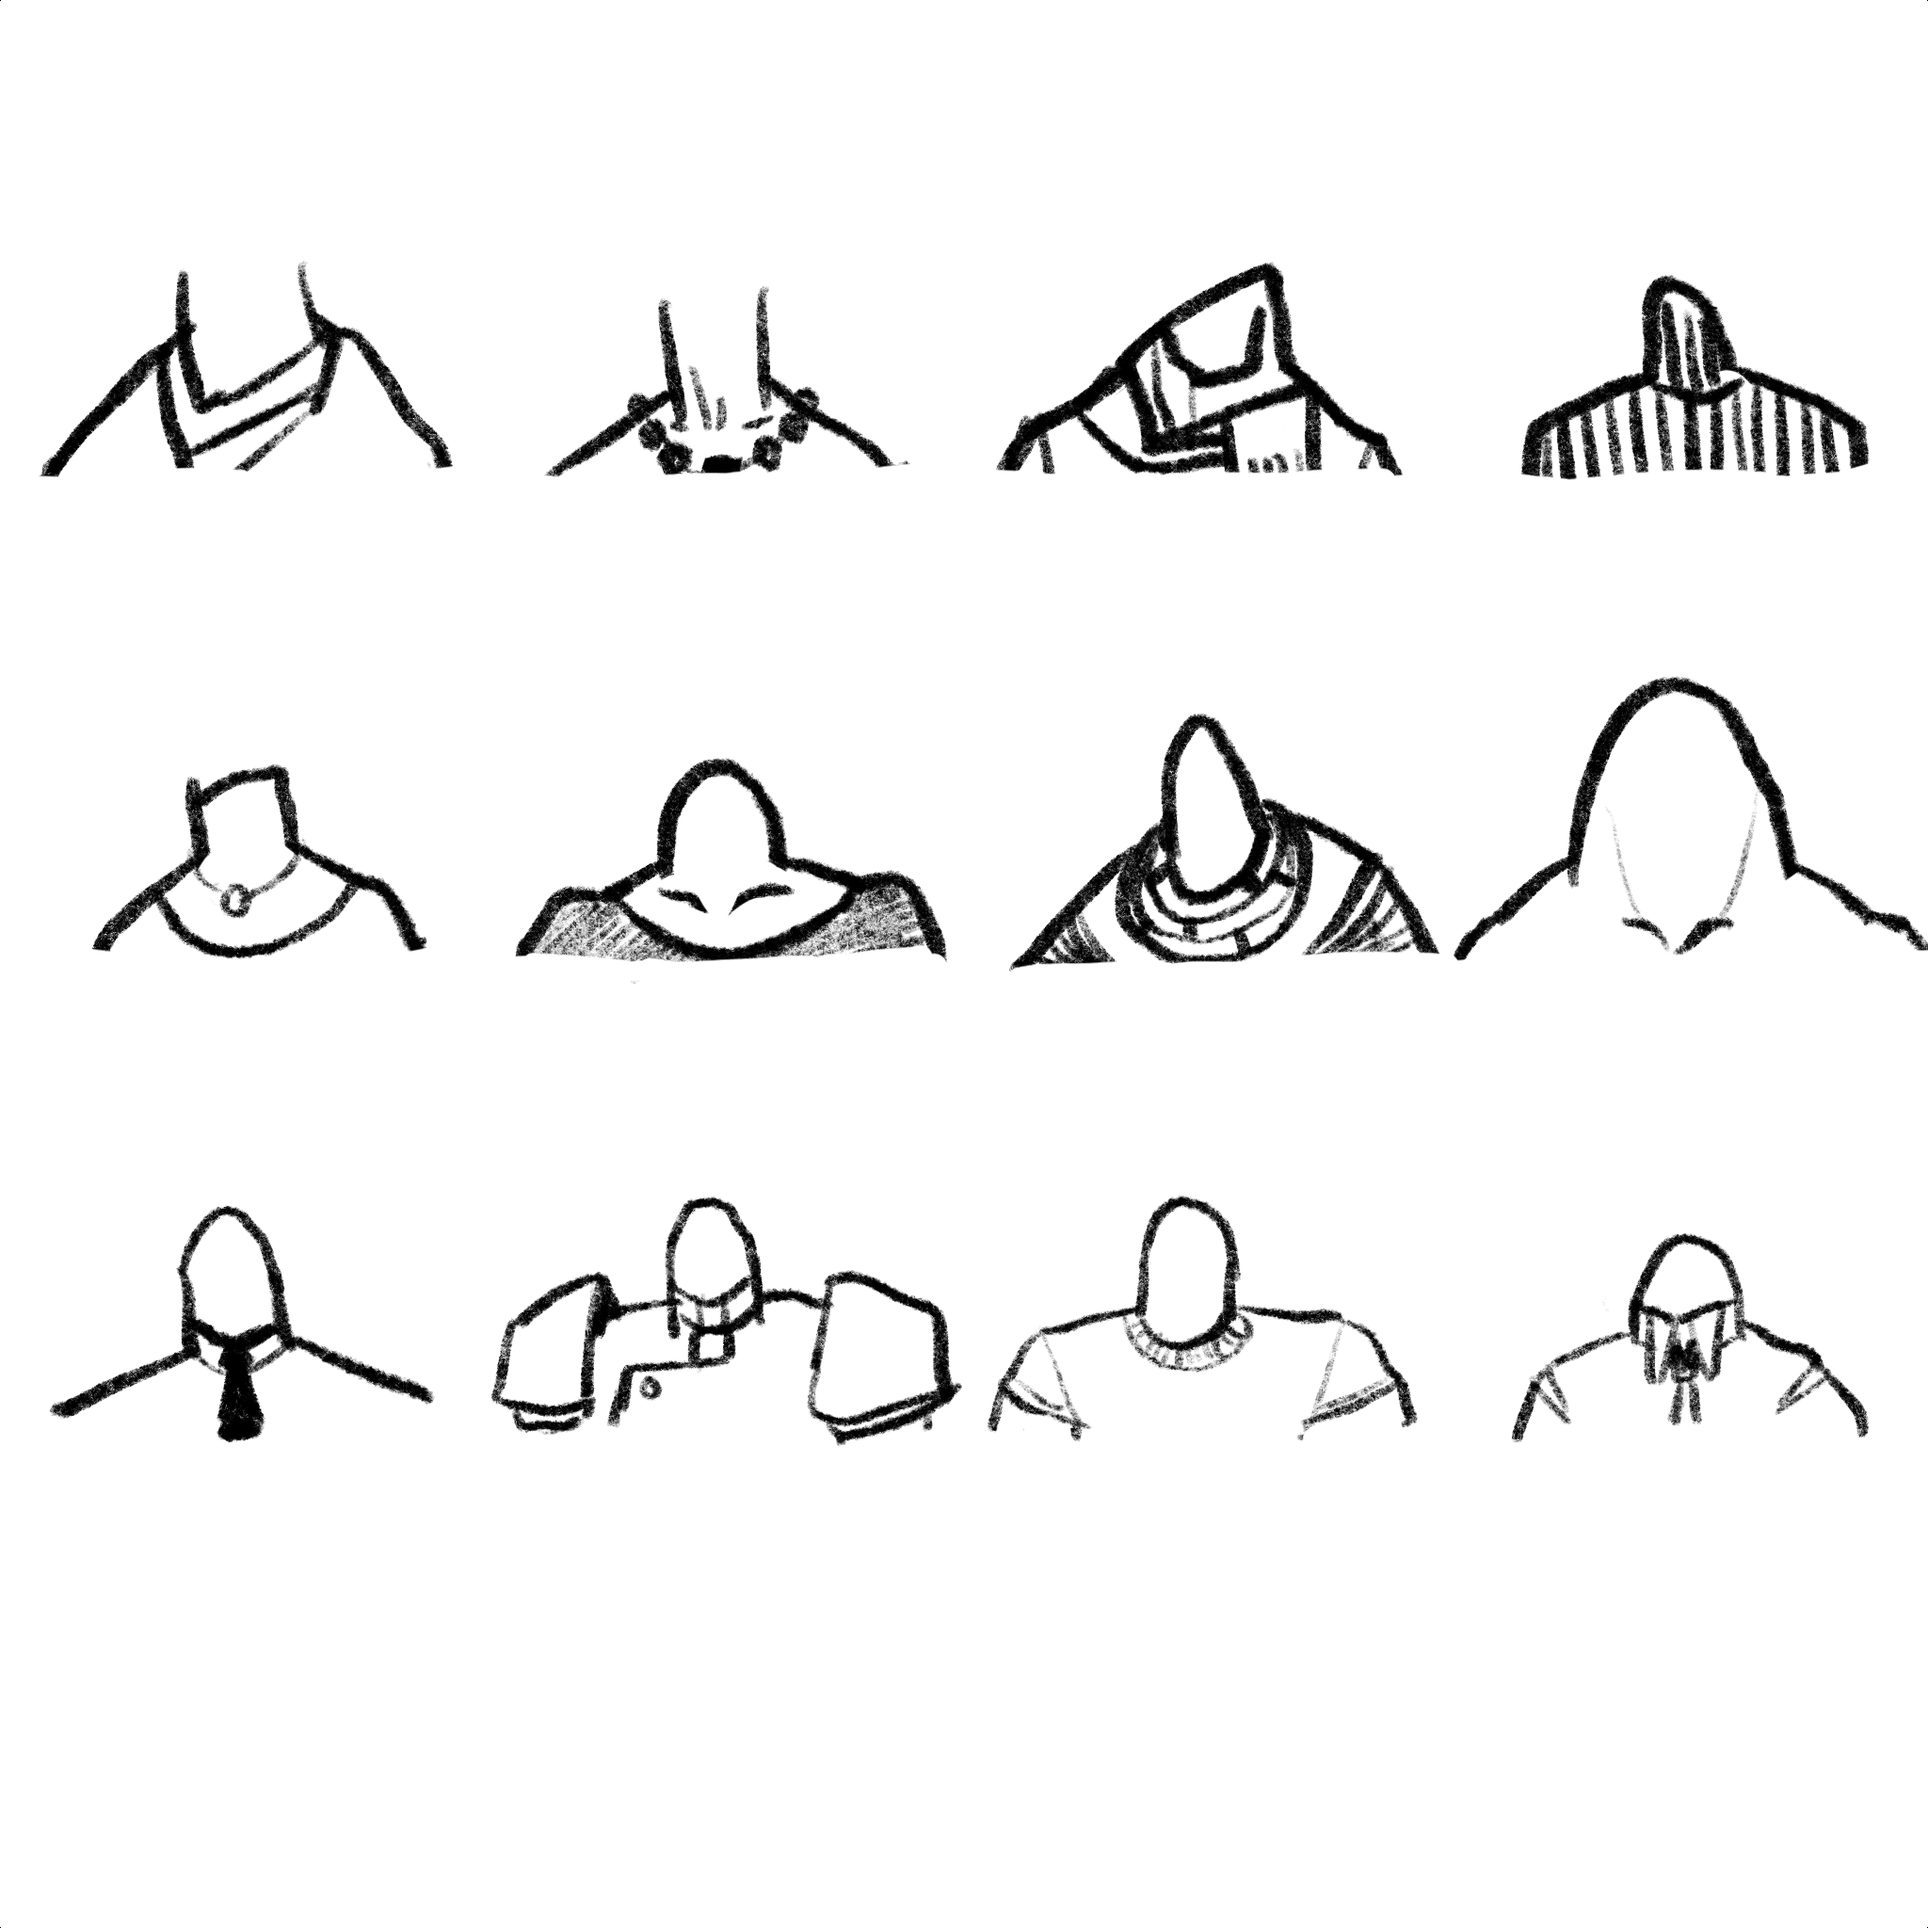
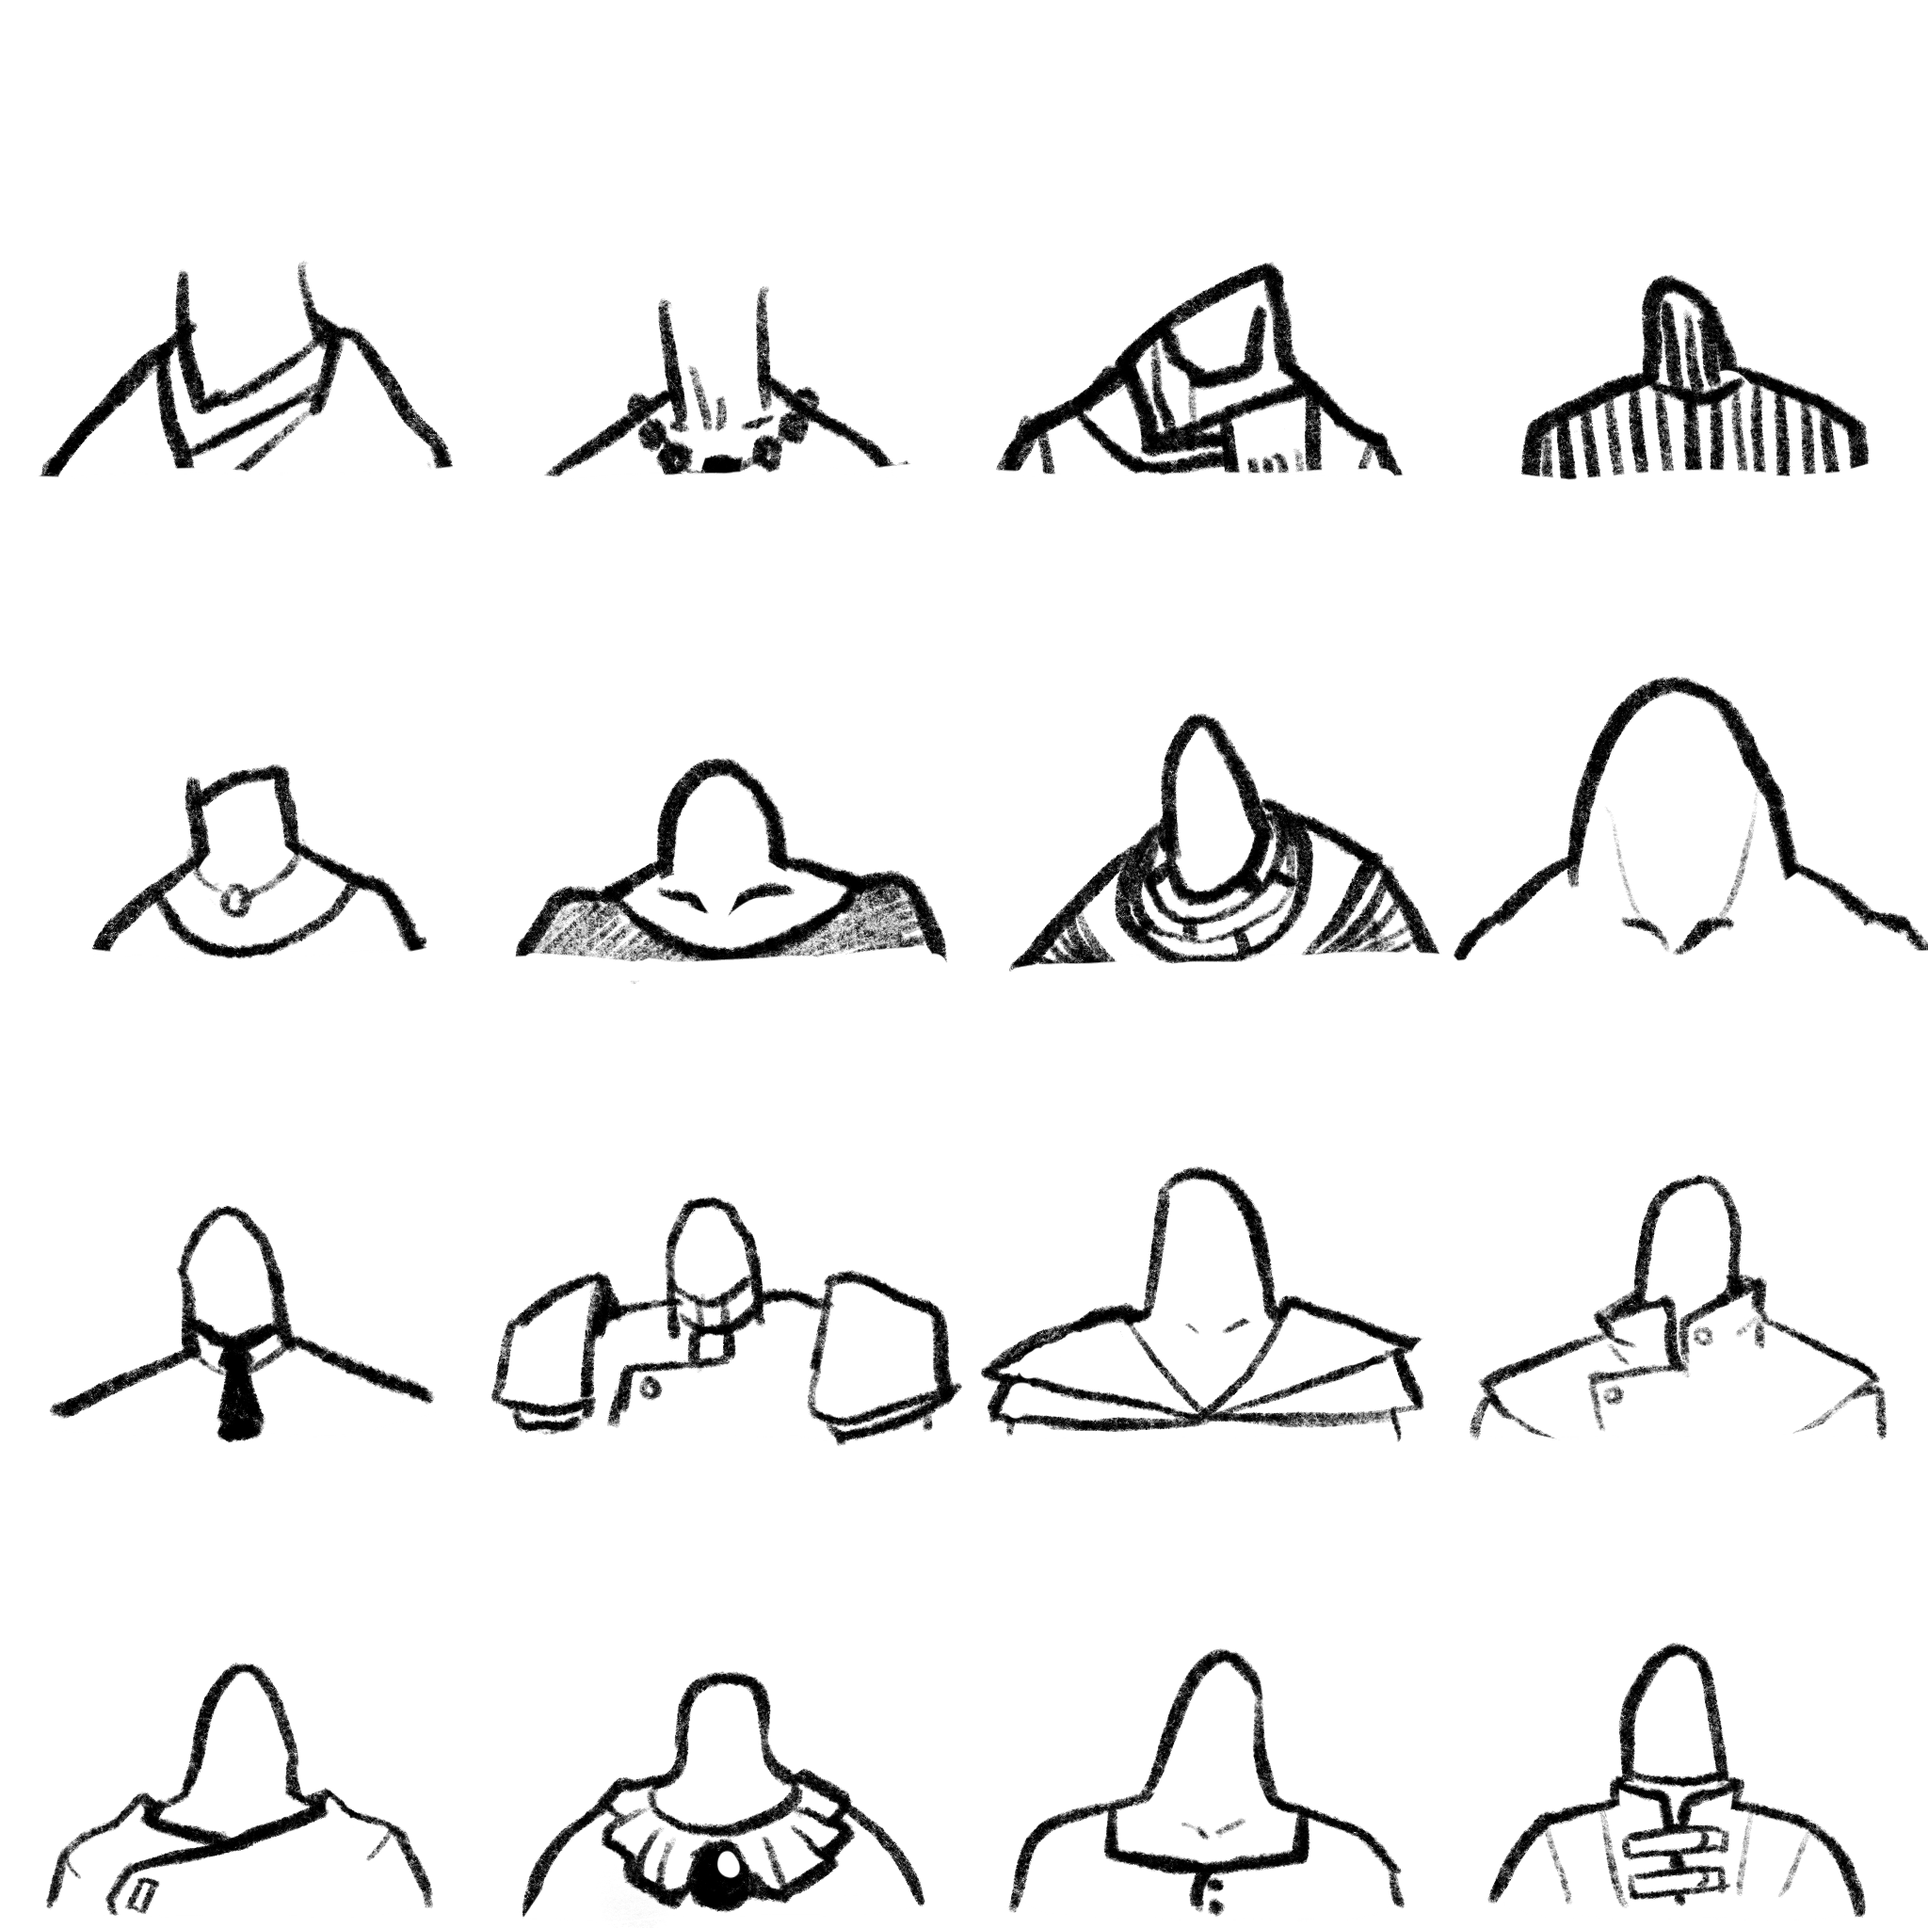
Portrait generator: more bodies, facial hair

diff --git a/src/apps/portraitGenerator/drawPortrait.js b/src/apps/portraitGenerator/drawPortrait.js
@@ -15,6 +15,7 @@ const drawPortrait = async (canvas, skinVariance = 12, hairVariance = 24, clothi
         imgMouths,
         imgHairFront,
         imgHairBack,
+        imgHairFace,
         imgBodies,
         imgBodiesSkin,
         imgAccessoryFront,
@@ -26,6 +27,7 @@ const drawPortrait = async (canvas, skinVariance = 12, hairVariance = 24, clothi
         require('./img/mouths.png'),
         require('./img/hair-front.png'),
         require('./img/hair-back.png'),
+        require('./img/hair-face.png'),
         require('./img/bodies.png'),
         require('./img/bodies-skin.png'),
         require('./img/accessory-front.png'),
@@ -46,13 +48,14 @@ const drawPortrait = async (canvas, skinVariance = 12, hairVariance = 24, clothi
     const mouths = createSpriteSheet(imgMouths, 512, 512);
     const hairFront = createSpriteSheet(imgHairFront, 512, 512);
     const hairBack = createSpriteSheet(imgHairBack, 512, 512);
+    const hairFace = createSpriteSheet(imgHairFace, 512, 512);
     const bodies = createSpriteSheet(imgBodies, 512, 512);
     const bodiesSkin = createSpriteSheet(imgBodiesSkin, 512, 512);
     const accessoryFront = createSpriteSheet(imgAccessoryFront, 512, 512);
     const accessoryBack = createSpriteSheet(imgAccessoryBack, 512, 512);
 
     const hairId = r(hairFront.size);
-    const bodyId = r(12);
+    const bodyId = r(bodies.size);
     const accessoryId = r(accessoryFront.size);
 
     ctx.drawImage(recolorImage(accessoryBack.sprite(accessoryId), accessoryColor), 0, 0);
@@ -62,6 +65,7 @@ const drawPortrait = async (canvas, skinVariance = 12, hairVariance = 24, clothi
     ctx.drawImage(recolorImage(heads.sprite(r(heads.size)), skinColor), 0, 0);
     ctx.drawImage(mouths.sprite(r(mouths.size)), 0, 0);
     ctx.drawImage(eyes.sprite(r(eyes.size)), 0, 0);
+    Math.random() < 0.1 && ctx.drawImage(recolorImage(hairFace.sprite(r(4)), hairColor), 0, 0);
     ctx.drawImage(recolorImage(noses.sprite(r(noses.size)), skinColor), 0, 0);
     ctx.drawImage(recolorImage(hairFront.sprite(hairId), hairColor), 0, 0);
     ctx.drawImage(recolorImage(accessoryFront.sprite(accessoryId), accessoryColor), 0, 0);
